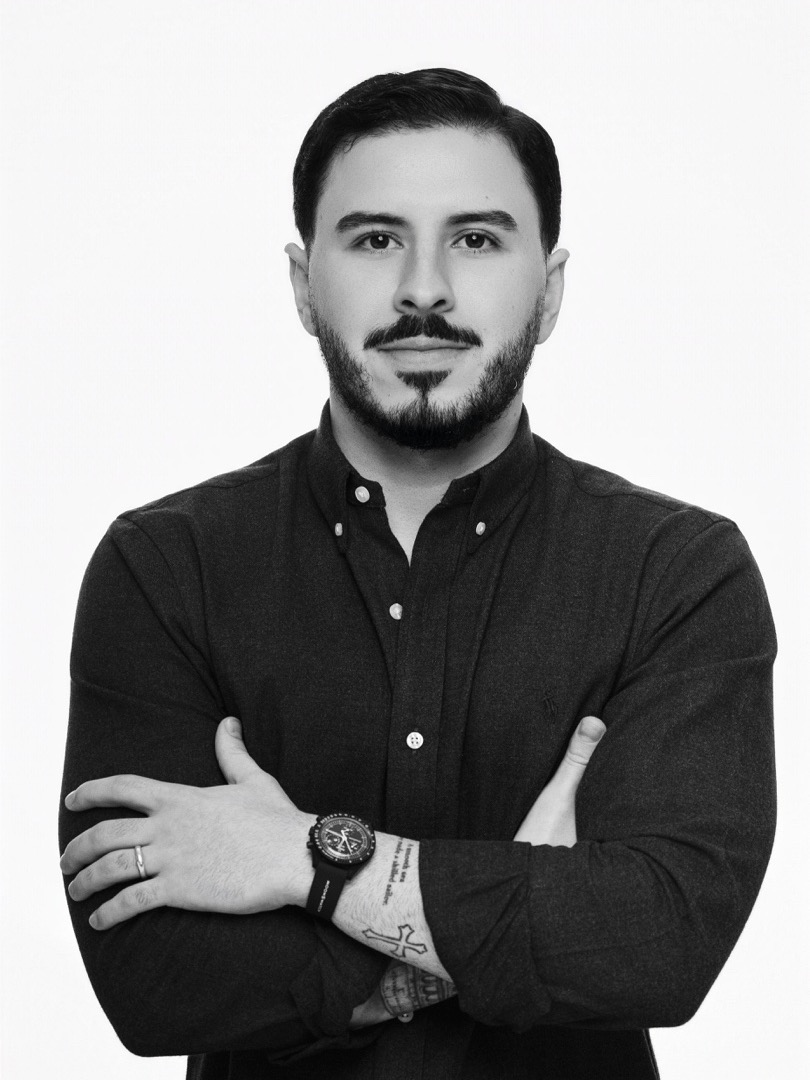
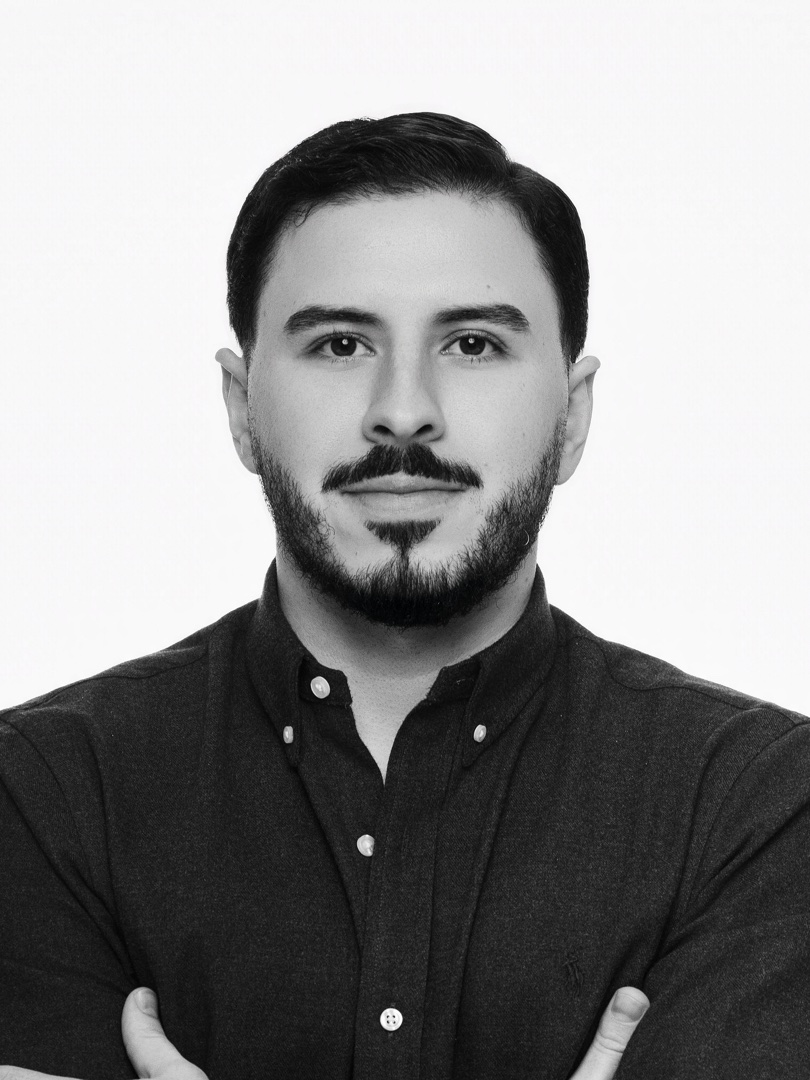
Reframe Luis Robles portrait to match team crops

diff --git a/index.html b/index.html
@@ -2022,7 +2022,7 @@ src="https://www.facebook.com/tr?id=1189198843238803&ev=PageView&noscript=1"
   <div class="team-grid">
     <div class="tc rv">
       <div class="tc-photo">
-        <img src="media/Team/luis-robles.jpg?v=2" alt="Luis Alonso Robles">
+        <img src="media/Team/luis-robles.jpg?v=3" alt="Luis Alonso Robles">
       </div>
       <div class="tc-name">Luis Alonso Robles</div>
       <div class="tc-role">Founder &amp; Marketing Director</div>
